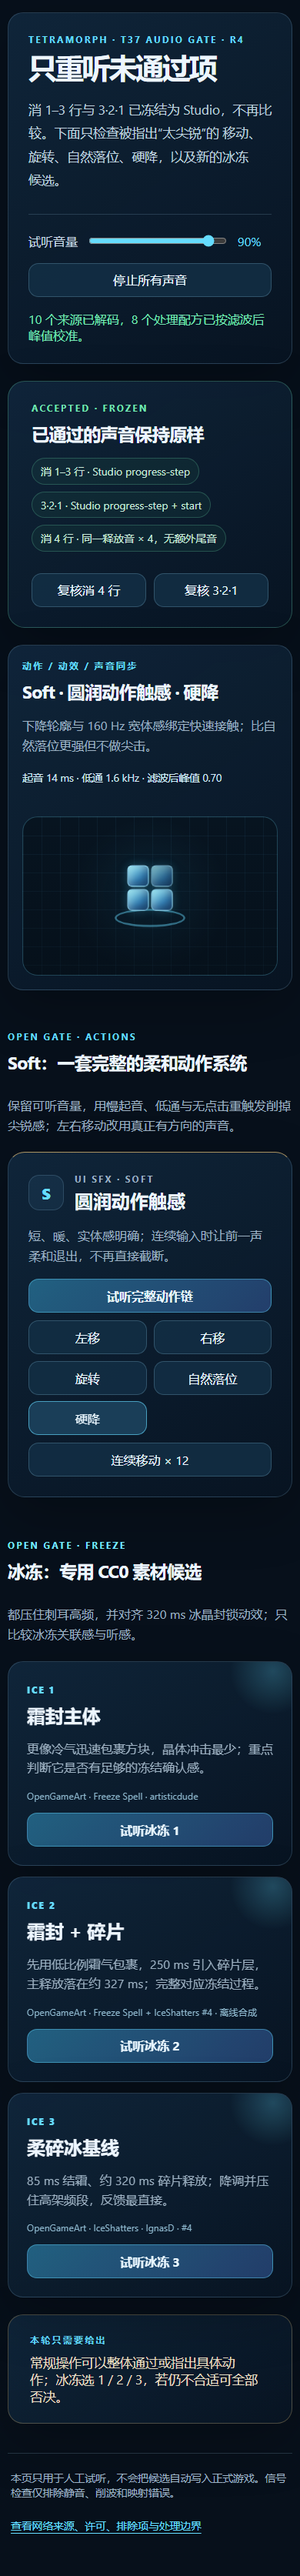
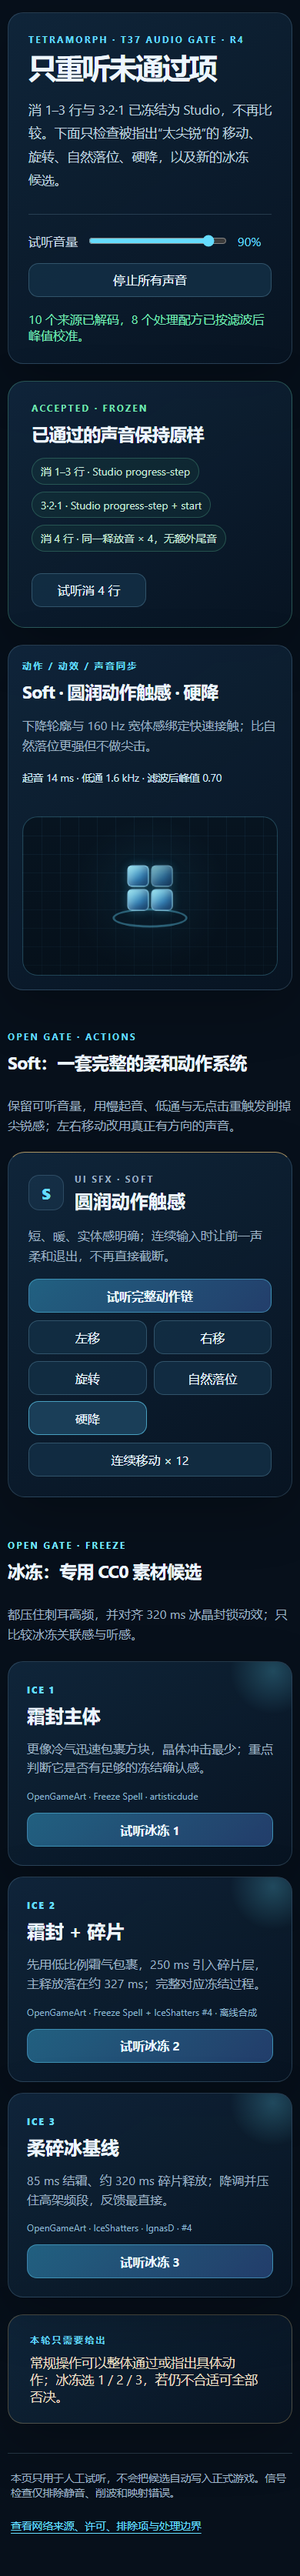
fix(t37): tighten audition scope and timing

diff --git a/docs/evidence/t37/audio-audition-r4/audition.js b/docs/evidence/t37/audio-audition-r4/audition.js
@@ -28,6 +28,15 @@ const OUTPUT_CONTRACTS = Object.freeze({
   candidateSafety: { threshold: -4, knee: 8, ratio: 3, attack: 0.008, release: 0.16 },
 })
 
+const VISUAL_TIMING = Object.freeze({
+  moveSettleMs: 56,
+  moveDurationMs: 88,
+  rotateDurationMs: 130,
+  lockDurationMs: 145,
+  hardDropDurationMs: 170,
+  iceReleaseMs: 320,
+})
+
 const RECIPES = Object.freeze({
   moveLeft: {
     label: '左移',
@@ -603,12 +612,12 @@ function animatePiece(kind) {
   const keyframes = {
     left: [
       { transform: `${base} translateX(0)` },
-      { transform: `${base} translateX(-17px)`, offset: 0.76 },
+      { transform: `${base} translateX(-17px)`, offset: VISUAL_TIMING.moveSettleMs / VISUAL_TIMING.moveDurationMs },
       { transform: `${base} translateX(-16px)` },
     ],
     right: [
       { transform: `${base} translateX(0)` },
-      { transform: `${base} translateX(17px)`, offset: 0.76 },
+      { transform: `${base} translateX(17px)`, offset: VISUAL_TIMING.moveSettleMs / VISUAL_TIMING.moveDurationMs },
       { transform: `${base} translateX(16px)` },
     ],
     rotate: [
@@ -627,7 +636,15 @@ function animatePiece(kind) {
       { transform: `${base} translateY(0) scaleY(1)` },
     ],
   }
-  const duration = reducedMotion() ? 1 : kind === 'drop' ? 170 : kind === 'rotate' ? 130 : kind === 'lock' ? 145 : 110
+  const duration = reducedMotion()
+    ? 1
+    : kind === 'drop'
+      ? VISUAL_TIMING.hardDropDurationMs
+      : kind === 'rotate'
+        ? VISUAL_TIMING.rotateDurationMs
+        : kind === 'lock'
+          ? VISUAL_TIMING.lockDurationMs
+          : VISUAL_TIMING.moveDurationMs
   elements.piece.animate(keyframes[kind], { duration, easing: 'cubic-bezier(0.22, 0.72, 0.24, 1)' })
   if (kind === 'drop' || kind === 'lock') {
     elements.impactRing.classList.remove('is-active')
@@ -670,7 +687,7 @@ function animateIce() {
 
 function playMove(direction) {
   const key = direction < 0 ? 'moveLeft' : 'moveRight'
-  setStage('soft', RECIPES[key].label, '方向声音与 56 ms 横向位移一致；旧声以 12 ms 退出，不硬切。', key)
+  setStage('soft', RECIPES[key].label, '56 ms 完成横向主落位，再用 32 ms 柔和收束；旧声以 12 ms 退出，不硬切。', key)
   animatePiece(direction < 0 ? 'left' : 'right')
   playRecipe(key, { group: 'move', replaceGroup: true, replacementReleaseMs: 12 })
 }
@@ -816,6 +833,7 @@ window.render_game_to_text = () => JSON.stringify({
   volumePercent: Math.round(state.volume * 100),
   accepted: ACCEPTED_CONTRACT,
   outputContracts: OUTPUT_CONTRACTS,
+  visualTiming: VISUAL_TIMING,
   actionRecipes: Object.fromEntries(['moveLeft', 'moveRight', 'rotate', 'lock', 'hardDrop'].map((key) => [key, RECIPES[key]])),
   iceCandidates: ICE_CANDIDATES,
   error: state.error,
@@ -830,6 +848,7 @@ window.__AUDITION_API__ = Object.freeze({
     recipeCount: Object.keys(RECIPES).length,
     accepted: ACCEPTED_CONTRACT,
     outputContracts: OUTPUT_CONTRACTS,
+    visualTiming: VISUAL_TIMING,
     recipes: RECIPES,
     sourceMetrics: Object.fromEntries(sourceMetrics),
     recipeMetrics: Object.fromEntries(recipeMetrics),

diff --git a/docs/evidence/t37/audio-audition-r4/index.html b/docs/evidence/t37/audio-audition-r4/index.html
@@ -38,9 +38,8 @@
             <span>消 4 行 · 同一释放音 × 4，无额外尾音</span>
           </div>
         </div>
-        <div class="accepted-actions" aria-label="已冻结声音复核">
-          <button type="button" data-profile="accepted" data-action="clear-4">复核消 4 行</button>
-          <button type="button" data-profile="accepted" data-action="countdown">复核 3·2·1</button>
+        <div class="accepted-actions" aria-label="消四行延伸试听">
+          <button type="button" data-profile="accepted" data-action="clear-4">试听消 4 行</button>
         </div>
       </section>
 

diff --git a/docs/evidence/t37/audio-audition-r4/PROVENANCE.md b/docs/evidence/t37/audio-audition-r4/PROVENANCE.md
@@ -22,7 +22,8 @@ its code is MIT and is not included here.
 The accepted R3 treatment remains unchanged, including its dedicated compressor
 (`-10 dB` threshold, `10 dB` knee, `4:1`, 3 ms attack, 120 ms release). A four-row
 clear is now exactly four `progress-step` pulses at `0 / 60 / 120 / 180 ms`; it has no
-`complete` asset or resolve tail.
+`complete` asset or resolve tail. R4 displays the accepted 3·2·1 contract as status
+only; it does not ask the player to review that accepted button again.
 
 ## Reworked ordinary actions
 
